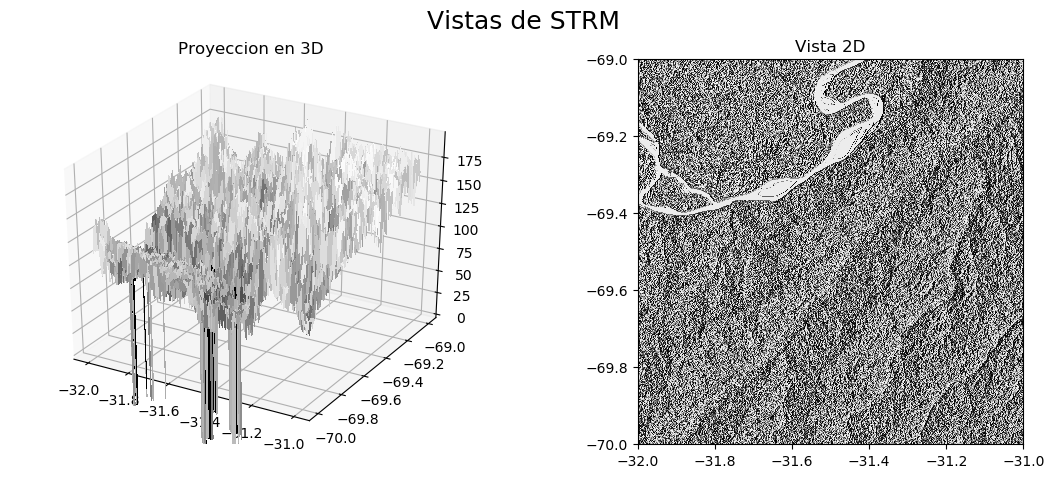
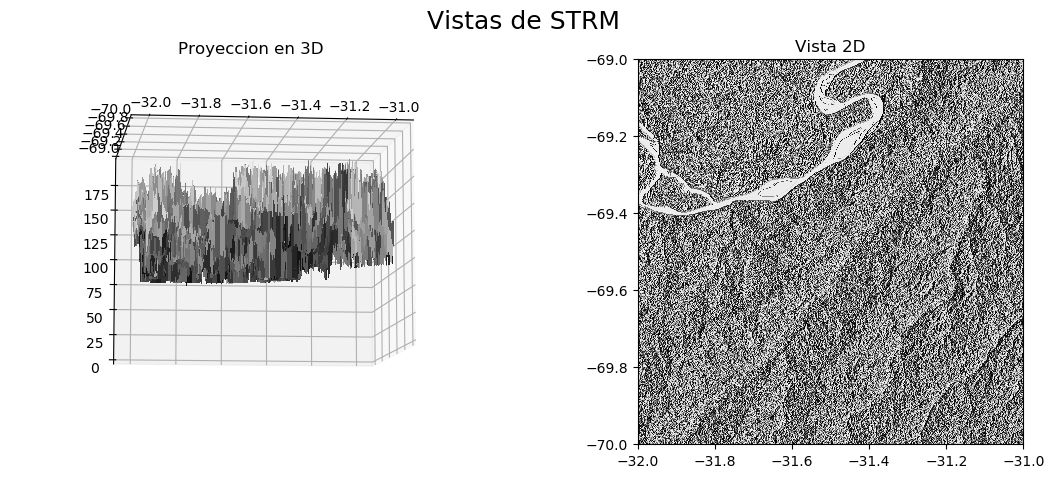
Se corrige error en correcion de valores

Changed region(s): [[0.0607, 0.205, 0.4554, 0.9372], [0.7894, 0.2636, 0.8197, 0.2929]]

diff --git a/app.py b/app.py
@@ -1,6 +1,6 @@
 """
 Titulo: Lectura, procesamiento y dibujo de un archivo DEM
-Autor: Felipe Godoy Cerca
+Autor: Felipe Godoy Cerda
 Fecha: 26-05-2019
 
 Descripcion:
@@ -71,7 +71,13 @@ def read_elevation_from_file(hgt_file):
 def clean_data(e):
     print("Limpiando datos incorrectos...")
     prev = np.ptp(e)
-    mean = np.mean(e) #Se obtiene promedio de medidas
+    n = []
+    print("Calculando promedio ignorando valores vacios")
+    for item in np.nditer(e):
+        if item > 0:
+            n.append(item)
+    mean = np.mean(np.array(n)) #Se obtiene promedio de medidas
+    print("Corrigiendo valores vacios por valor promedio")
     for item in np.nditer(e, op_flags=['readwrite']):
         if item < 0:
             item[...] = mean
